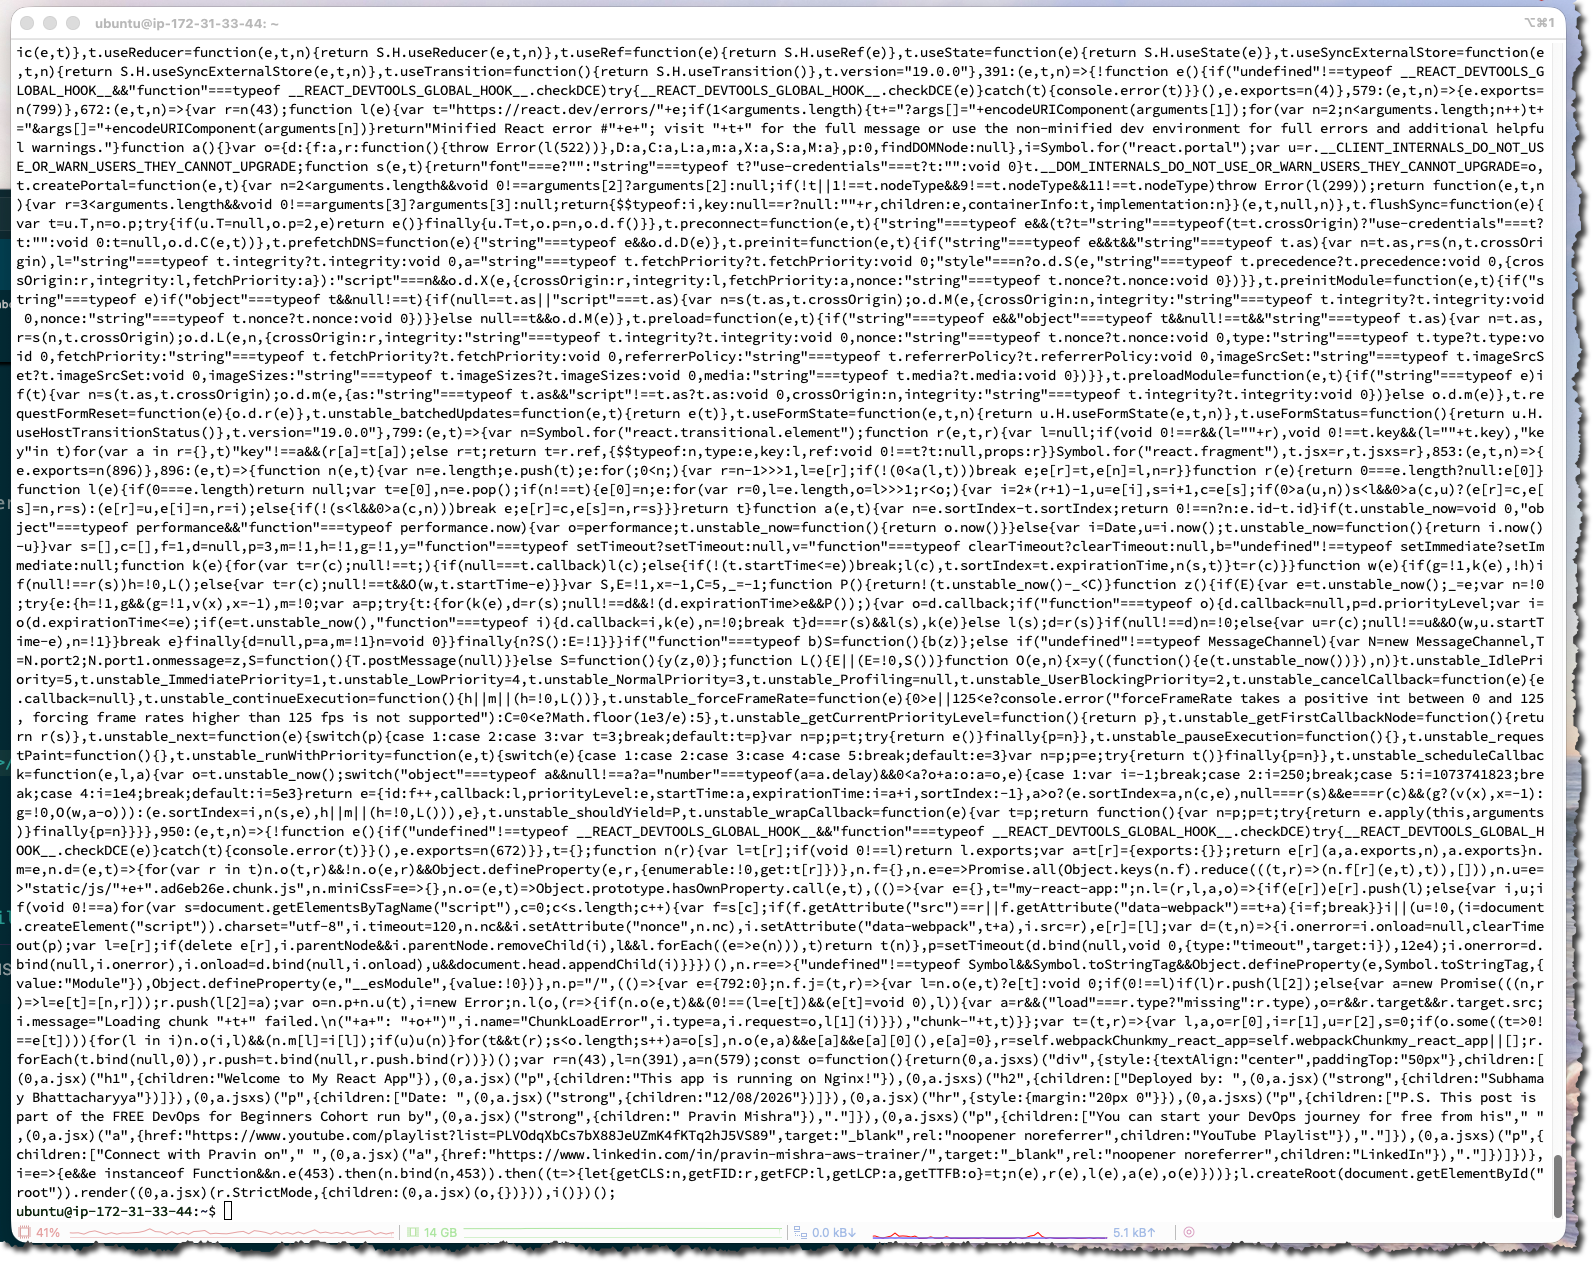
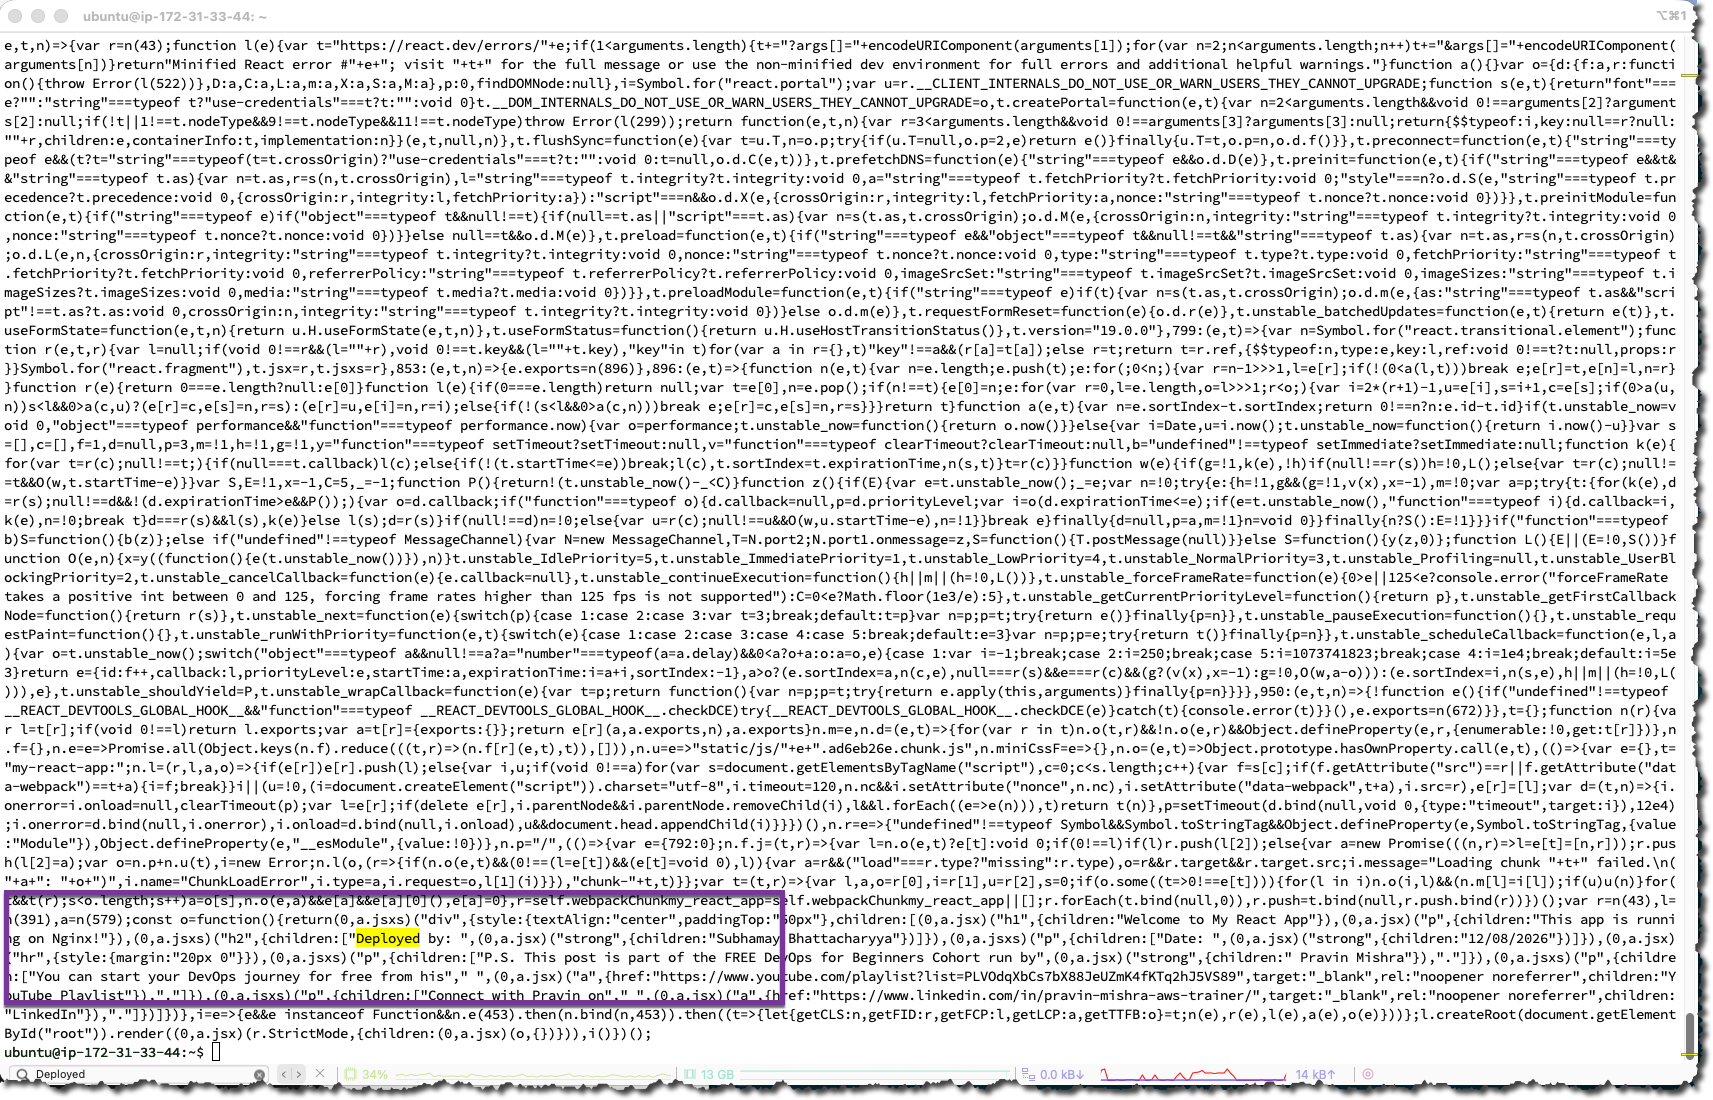
Update assignment 03 production maintenance drill: fix screenshot references, add new screenshots, and enhance documentation

diff --git a/week-03-linux-and-bash-for-devops/assignment-03-production-maintenance-drill-ops-checklist.md b/week-03-linux-and-bash-for-devops/assignment-03-production-maintenance-drill-ops-checklist.md
@@ -494,13 +494,13 @@ Simulate a real-world Nginx misconfiguration and recover the service safely.
 
 #### Screenshot 2 — Output of `sudo nginx -t` showing syntax ok (fixed config)
 
-![Screenshot 19](./screenshots/week-03-linux-and-bash-for-devops-03-20.png)
+![Screenshot 19](./screenshots/week-03-linux-and-bash-for-devops-03-19.png)
 
 ---
 
 #### Screenshot 3 — Output of `curl -I http://<public-ip>` confirming recovery (200 OK)
 
-![Screenshot 21](./screenshots/week-03-linux-and-bash-for-devops-03-21.png)
+![Screenshot 20](./screenshots/week-03-linux-and-bash-for-devops-03-20.png)
 
 ---
 
@@ -510,19 +510,27 @@ Answer the following in your own words:
 
 **1. What caused the configuration failure?**
 
-Write your answer here.
+The source code lived in `~/my-react-app/src/` but you searched in `/var/www/html/`, which only contains minified production builds. Grep found "Deployed by" but displayed it as garbled minified code with literal `\n` characters.
 
 ---
 
 **2. How did you fix the issue?**
 
-Write your answer here.
+Search the source code directory instead of the deployment directory:
+
+```bash
+grep -R "Deployed by" ~/my-react-app/src -n
+```
 
 ---
 
 **3. How can you avoid this kind of issue in real production systems?**
 
-Write your answer here.
+- Use Git to version control source code separately from deployments
+- Implement CI/CD to track which commit produced which deployment
+- Use environment variables instead of hardcoding deployment info
+- Keep clear documentation of where source code and built artifacts live
+- Maintain deployment logs tracking who deployed what and when
 
 ---
 
@@ -536,13 +544,13 @@ Simulate missing deployment content and recover the application safely.
 
 #### Screenshot 1 — Output of `curl -I http://<public-ip>` showing failure (non-200 response)
 
-Add your screenshot here.
+![Screenshot 21](./screenshots/week-03-linux-and-bash-for-devops-03-21.png)
 
 ---
 
 #### Screenshot 2 — Output of `curl -I http://<public-ip>` confirming recovery (200 OK)
 
-Add your screenshot here.
+![Screenshot 22](./screenshots/week-03-linux-and-bash-for-devops-03-22.png)
 
 ---
 
@@ -552,19 +560,26 @@ Answer the following in your own words:
 
 **1. What caused the application to break in this scenario?**
 
-Write your answer here
+Deleting the `/var/www/html` directory removed the entire production deployment, taking down the React application. Without the compiled files, static assets, and index.html, the web server had nothing to serve to users.
 
 ---
 
 **2. How did you fix the issue and restore the application?**
 
-Write your answer here.
+You restored the `/var/www/html` directory from a backup, which recovered all the compiled React bundles, assets, and configuration files. This brought the application back online immediately without needing to rebuild or redeploy from source.
 
 ---
 
 **3. What steps would you take to prevent this kind of issue in real production systems?**
 
-Write your answer here.
+- **Implement automated backups** — Daily/hourly backups with versioning
+- **Use infrastructure-as-code** — Terraform/CloudFormation to quickly redeploy if needed
+- **Set directory permissions** — Restrict write access to `/var/www` (prevent accidental deletion)
+- **Enable audit logging** — Log all file deletions to detect accidents
+- **Use container deployments** — Docker/Kubernetes make redeployment faster than restoring backups
+- **Automated testing & CI/CD** — Catch issues before they reach production
+- **Disaster recovery plan** — Document RTO/RPO and test recovery procedures regularly
+- **Read-only filesystems** — Use immutable deployments where possible
 
 ---
 
@@ -580,31 +595,31 @@ Answer the following in your own words:
 
 **1. Why is SSH key-based authentication more secure than sharing passwords?**
 
-Write your answer here.
+SSH keys use public-key cryptography where only the private key (kept secret) can decrypt the public key's challenge. Passwords can be brute-forced, intercepted, or guessed. Keys are mathematically stronger, cannot be reused by attackers if compromised, and don't require transmitting secrets over the network.
 
 ---
 
 **2. Why should only required ports be open on a production server?**
 
-Write your answer here.
+Every open port is a potential attack surface. Unnecessary open ports increase the risk of unauthorized access, exploitation of unknown vulnerabilities, and lateral movement by attackers. Following the principle of least privilege minimizes the attack surface and limits what an attacker can target.
 
 ---
 
 **3. Why is it important for Nginx to be enabled on boot?**
 
-Write your answer here.
+Enabling Nginx to auto-start on boot ensures the web application automatically comes back online after server restarts (planned maintenance or unexpected crashes). Without this, manual intervention is needed after every reboot, causing downtime and service disruption.
 
 ---
 
 **4. What are the risks of sharing secrets, keys, or credentials publicly?**
 
-Write your answer here.
+Publicly shared credentials allow anyone to impersonate you, access your cloud resources, steal data, deploy malicious code, incur unexpected costs, or use your infrastructure for attacks. Leaked keys/passwords are extremely difficult to revoke completely and compromise your entire system's security.
 
 ---
 
 **5. Why should cloud resources be stopped or terminated when they are no longer needed?**
 
-Write your answer here.
+Running unused cloud resources (EC2, databases, storage) continuously incurs charges even if not in use. Terminating them reduces infrastructure costs, minimizes the attack surface, and prevents orphaned resources from becoming security liabilities or compliance risks.
 
 ---
 
@@ -616,13 +631,13 @@ Write your answer here.
 
 Paste your LinkedIn post URL here:
 
-`Add your URL here`
+[LinkedIn Post](https://www.linkedin.com/posts/subhamay-bhattacharyya-67753329_dmibypravinmishra-ugcPost-7493847843539968000-7jd8/?utm_source=share&utm_medium=member_desktop&rcm=ACoAAAXzlvsBLGMTn7whkbpl6JdhO70ZuveqIQY)
 
 ---
 
 #### Screenshot — Published LinkedIn post
 
-Add your screenshot here.
+![Screenshot 23](./screenshots/week-03-linux-and-bash-for-devops-03-23.png)
 
 ---
 
